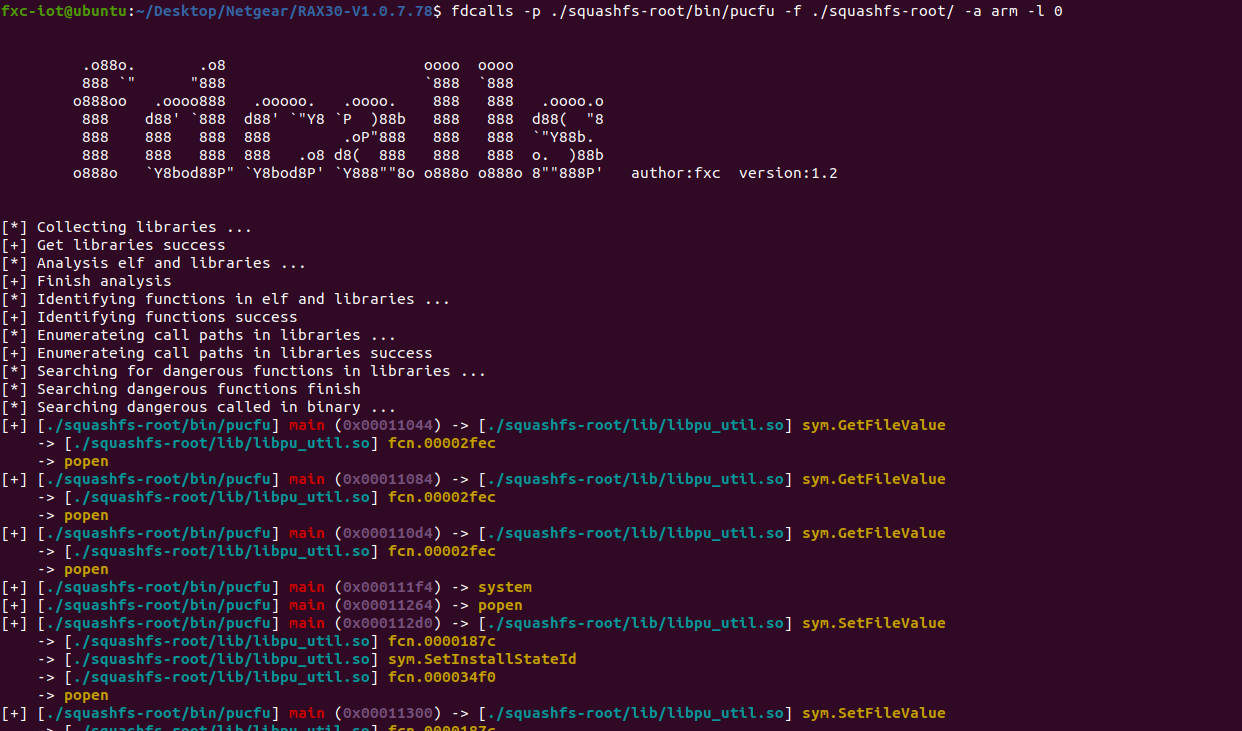
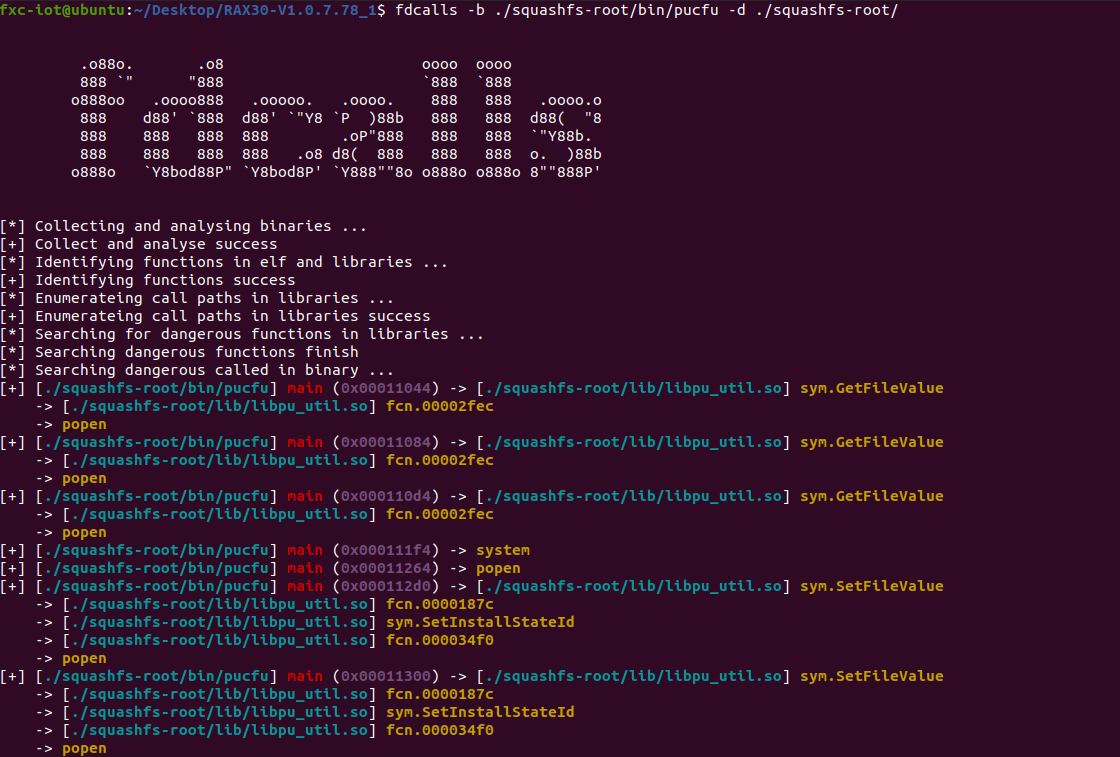
Add files via upload

diff --git a/fdcalls/fdcalls.py b/fdcalls/fdcalls.py
@@ -2,6 +2,7 @@
 # -*- coding: utf-8 -*-
 
 import sys
+import json
 import r2pipe
 import argparse
 import subprocess
@@ -53,7 +54,7 @@ def init():
          888    d88' `888  d88' `"Y8 `P  )88b   888   888  d88(  "8 
          888    888   888  888        .oP"888   888   888  `"Y88b.  
          888    888   888  888   .o8 d8(  888   888   888  o.  )88b 
-        o888o   `Y8bod88P" `Y8bod8P' `Y888""8o o888o o888o 8""888P'   author:fxc  version:1.2
+        o888o   `Y8bod88P" `Y8bod8P' `Y888""8o o888o o888o 8""888P'
                                                             
     """)
 
@@ -76,7 +77,8 @@ def get_path_by_filename(filename, file_system_path):
         return line
 
 # Obtain relevant dynamic link library names
-def get_dynamic_libraries(target_file_path, file_system_path):
+def get_dynamic_libraries(r2fd, file_system_path):
+    '''
     output = subprocess.check_output(['readelf', '-d', target_file_path]).decode('utf-8')
     libraries = []
     for line in output.split('\n'):
@@ -84,6 +86,13 @@ def get_dynamic_libraries(target_file_path, file_system_path):
             library = line.split('[')[-1].split(']')[0]
             library = get_path_by_filename(library, file_system_path)
             libraries.append(library)
+    '''
+    libraries = []
+    libs = r2fd.cmdj('ilj')
+    for lib in libs:
+        library = get_path_by_filename(lib, file_system_path)
+        libraries.append(library)
+
     return libraries
 
 # Obtain function names in target file
@@ -93,27 +102,44 @@ def get_function_names(r2fd, mode):
     functions = r2fd.cmdj('aflj')
     if mode == 0:
         for function in functions:
-            #print(function)
+            # print(function)
             if 'sym.imp' in function['name']:
                 function_name = function['name']
-                #print(function_name)
+                # print(function_name)
                 function_names.append(function_name) 
     else:
         for function in functions:
-            #print(function)
+            # print(function)
             if 'sym.imp' not in function['name']:
                 function_name = function['name']
-                #print(function_name)
+                # print(function_name)
                 function_names.append(function_name) 
     return function_names
 
+# start r2 analysis
 def r2_start_analysis(filepath):
     r2fd = r2pipe.open(filepath)
     r2fd.cmd('aaa')
      
     return r2fd
 
+# get architecture of binary
+def get_architecture(r2fd):
+    info = json.loads(r2fd.cmd('iIj'))
+    return info["arch"]
+
 # Obtain the function called internally from the function
+'''
+for example:
+    int FunA(){
+        system(...);
+        printf(...);
+    }
+    we will get:
+    function_called_functions[A] = ['system', 'printf']
+
+    differnet arch may be a little difference while coding
+'''
 def get_functions_called(r2fd, filename, arch):
 
     function_called_functions = {}
@@ -123,71 +149,85 @@ def get_functions_called(r2fd, filename, arch):
     
     if arch == 'arm':
         for fun in functions_self_defined[filename]:
-            #print(fun)
+            # print(fun)
             functions = []
             disassembly = r2fd.cmd(f'pdf @ {fun} 2>/dev/null')
             for line in disassembly.split('\n'):
                 function_name = ''
                 if 'sym' in line:
-                    #print(line)
+                    # print(line)
                     line1 = line[line.rfind('sym'):]
                     if line1.find(' ') != -1:
                         length = line1.find(' ')
                     else:
                         length = len(line1)
-                    #print(length)
-                    #print(line[line.find('sym'):line.find('sym')+length])
+                    # print(length)
+                    # print(line[line.find('sym'):line.find('sym')+length])
                     function_name = line[line.find('sym'):line.find('sym')+length]
                 elif 'fcn' in line:
-                    #print(line)
+                    # print(line)
                     line1 = line[line.find('fcn'):]
                     if line1.find(' ') != -1:
                         length = line1.find(' ')
                     else:
                         length = len(line1)
-                    #print(length)
-                    #print(line[line.find('fcn'):line.find('fcn')+length])
+                    # print(length)
+                    # print(line[line.find('fcn'):line.find('fcn')+length])
                     function_name = line[line.find('fcn'):line.find('fcn')+length]
                 if function_name != '' and function_name!=fun and function_name not in functions:
                     functions.append(function_name)
             function_called_functions[fun] = functions
-            #print(function_called_functions[fun])
-        #print(function_called_functions)
+            # print(function_called_functions[fun])
+        # print(function_called_functions)
     if arch == 'mips':
         for fun in functions_self_defined[filename]:
-            #print(fun)
+            # print(fun)
             functions = []
             disassembly = r2fd.cmd(f'pdf @ {fun} 2>/dev/null')
             for line in disassembly.split('\n'):
                 function_name = ''
                 if 'sym' in line and 'XREF' not in line:
-                    #print(line)
+                    # print(line)
                     line1 = line[line.rfind('sym'):]
                     if line1.find(' ') != -1:
                         length = line1.find(' ')
                     else:
                         length = len(line1)
-                    #print(length)
-                    #print(line[line.find('sym'):line.find('sym')+length])
+                    # print(length)
+                    # print(line[line.find('sym'):line.find('sym')+length])
                     function_name = line[line.find('sym'):line.find('sym')+length]
                 elif 'fcn' in line and 'XREF' not in line:
-                    #print(line)
+                    # print(line)
                     line1 = line[line.find('fcn'):]
                     if line1.find(' ') != -1:
                         length = line1.find(' ')
                     else:
                         length = len(line1)
-                    #print(length)
-                    #print(line[line.find('fcn'):line.find('fcn')+length])
+                    # print(length)
+                    # print(line[line.find('fcn'):line.find('fcn')+length])
                     function_name = line[line.find('fcn'):line.find('fcn')+length]
                 if function_name != '' and function_name!=fun and function_name not in functions:
                     functions.append(function_name)
             function_called_functions[fun] = functions
-            #print(function_called_functions[fun])
-        #print(function_called_functions)
+            # print(function_called_functions[fun])
+        # print(function_called_functions)
     return function_called_functions
 
 # Obtaining a dangerous function call chain
+'''
+for example:
+    int FunA(){
+        FunB();
+        puts(...);
+    }
+    int FunB(){
+        system(...);
+        printf(...);
+    }
+    we will get:
+    dangerous_fun[A] = ['FunB', 'system']
+    dangerous_fun[B] = ['system']
+'''
 def get_dangerous_chains(dangerous_fun, pre_fun):
     dangerous_fun = [dangerous_fun]
     
@@ -200,7 +240,7 @@ def find_command_injection(r2fd, filename):
     banned_funcs = []
 
     for fun in functions_self_defined[filename]:
-        #print(fun)
+        # print(fun)
         disassembly = r2fd.cmd(f'pdf @ {fun} 2>/dev/null')
         for line in disassembly.split('\n'):
             for func in dangerous_functions:
@@ -237,12 +277,12 @@ def find_command_injection(r2fd, filename):
                         else:
                             func_chain+= add_colour(f, 'yellow')
                             cnt+= 1
-                    #print(func_chain)
+                    # print(func_chain)
                     cmdinjection.append(func_chain)
 
-                    #print(fun + f'({addr}) ->' + func)
-                    #print(dangerous_functions_chain[func])
-                    #print(line)
+                    # print(fun + f'({addr}) ->' + func)
+                    # print(dangerous_functions_chain[func])
+                    # print(line)
     return cmdinjection
 
 # Add the filename before the functionname
@@ -262,74 +302,72 @@ def show_more_dangerous_function():
 
 def main():
     parser = argparse.ArgumentParser(description="fdcalls to help analysis")
-    parser.add_argument('-p', '--path', type=str, default='', help='path to target binary')
-    parser.add_argument('-f', '--file_system_path', type=str, default='', help='path to file path')
-    parser.add_argument('-a', '--arch', type=str, default='', help='arch of target binary')
+    parser.version = "1.3"
+
+    parser.add_argument('-b', '--target_binary_path', type=str, default='', help='path to target binary')
+    parser.add_argument('-d', '--file_system_directory_path', type=str, default='', help='path to firmware file system directory')
     parser.add_argument('-l', '--level', type=int, default=0, help='level of analysis')
+    parser.add_argument('-v', action='version', help='print the version and exit')
     args = parser.parse_args()
 
-    target_filepath = args.path
-    file_system_path = args.file_system_path
-    architecture = args.arch
+    target_filepath = args.target_binary_path
+    file_system_path = args.file_system_directory_path
     level = args.level
     
-    if target_filepath == ''or architecture == '':
-        print('./dcalls.py -p [path/to/target_binary] -f [path/to/file_system_dir] -a [arch] -l [level=0]')
+    if target_filepath == '':
+        print('./dcalls.py -b [path/to/target_binary] -d [path/to/file_system_dir] -a [arch] -l [level=0]')
         exit(0)
     
     init()
-    
-    print("[*] Collecting libraries ...")
-    dynamic_libraries[target_filepath] = get_dynamic_libraries(target_filepath, file_system_path)
+
+    print("[*] Collecting and analysing binaries ...")
+    r2_fd[target_filepath] = r2_start_analysis(target_filepath)
+    dynamic_libraries[target_filepath] = get_dynamic_libraries(r2_fd[target_filepath], file_system_path)
     for f in dynamic_libraries[target_filepath]:
-        if f not in all_used_dynamic_libraries:
-            all_used_dynamic_libraries.append(f)
-        dynamic_libraries[f] = get_dynamic_libraries(f, file_system_path)
+        r2_fd[f] = r2_start_analysis(f)
+        all_used_dynamic_libraries.append(f)
+        dynamic_libraries[f] = get_dynamic_libraries(r2_fd[f], file_system_path)
         for lib in dynamic_libraries[f]:
             if lib not in all_used_dynamic_libraries:
                 all_used_dynamic_libraries.append(lib)
-        #print(f + "=> ", end = '')
-        #print(get_dynamic_libraries(f, file_system_path))
-
+        # print(f + "=> ", end = '')
+        # print(get_dynamic_libraries(r2_fd[f], file_system_path))
+    
     for f in all_used_dynamic_libraries:
         if f not in dynamic_libraries.keys():
-            dynamic_libraries[f] = get_dynamic_libraries(f, file_system_path)
-            #print(f + "=> ", end = '')
-            #print(get_dynamic_libraries(f, file_system_path))
-    #print(all_used_dynamic_libraries)
-    print("[+] Get libraries success")
-    
-    print("[*] Analysis elf and libraries ...")
-    r2_fd[target_filepath] = r2_start_analysis(target_filepath)
-    for f in all_used_dynamic_libraries:
-        r2_fd[f] = r2_start_analysis(f)
-    print("[+] Finish analysis  ")
-    
-    
+            r2_fd[f] = r2_start_analysis(f)
+            dynamic_libraries[f] = get_dynamic_libraries(r2_fd[f], file_system_path)
+            # print(f + "=> ", end = '')
+            # print(get_dynamic_libraries(r2_fd[f], file_system_path))
+    # print(all_used_dynamic_libraries)
+    architecture = get_architecture(r2_fd[target_filepath])
+    print("[+] Collect and analyse success")
+
     print("[*] Identifying functions in elf and libraries ...")
     functions_other_defined[target_filepath] = get_function_names(r2_fd[target_filepath], 0)
     for f in all_used_dynamic_libraries:
         functions_other_defined[f] = get_function_names(r2_fd[f], 0)
-    #print(functions_other_defined)
+    # print(functions_other_defined)
     
     functions_self_defined[target_filepath] = get_function_names(r2_fd[target_filepath], 1)
     for lib in all_used_dynamic_libraries:
         functions_self_defined[lib] = get_function_names(r2_fd[lib], 1)
         for fun in functions_self_defined[lib]:
             function_to_library[fun] = lib
-    #print(functions_self_defined['./bin/pucfu'])
-    #print(functions_self_defined)
-    #print(function_to_library)
+    # print(functions_self_defined['./bin/pucfu'])
+    # print(functions_self_defined)
+    # print(function_to_library)
     print("[+] Identifying functions success")
     
     print("[*] Enumerateing call paths in libraries ...")
     for lib in all_used_dynamic_libraries:
         libraries_called_functions[lib] = get_functions_called(r2_fd[lib] ,lib, architecture)
-        #print(lib)
-        #print(get_functions_called(r2_fd[lib] ,lib, architecture))
-    #print(libraries_called_functions)
+        # print(lib)
+        # print(get_functions_called(r2_fd[lib] ,lib, architecture))
+    # print(libraries_called_functions)
     print("[+] Enumerateing call paths in libraries success")
 
+    # Search dangerous functions and add them to dangerous_functions
     print("[*] Searching for dangerous functions in libraries ...")
     dangerous_functions_now_len = len(dangerous_functions)
     dangerous_functions_old_len = 0
@@ -357,12 +395,13 @@ def main():
 
         dangerous_functions_old_len = dangerous_functions_now_len
         dangerous_functions_now_len = len(dangerous_functions)
-    #print(dangerous_functions)
-    #print(dangerous_functions_chain)
+    # print(dangerous_functions)
+    # print(dangerous_functions_chain)
     print("[*] Searching dangerous functions finish")
 
     print("[*] Searching dangerous called in binary ...")
     command_injection_addr = find_command_injection(r2_fd[target_filepath], target_filepath)
+    # print results
     for s in command_injection_addr:
         print(s)
     print("[+] fdcalls finish")
@@ -372,5 +411,3 @@ def main():
 
 if __name__ == '__main__':
     main()
-    
-

diff --git a/README.md b/README.md
@@ -4,7 +4,7 @@
 
 ## Version
 
-latest: v1.2
+latest: v1.3
 
 ## Introduction
 
@@ -17,7 +17,7 @@ Welcome to provide suggestions.
 ## Usage
 
 ```shell
-fdcalls -p [path/to/target_binary] -f [path/to/file_system_dir] -a [arch] -l [level=0]
+fdcalls -b [path/to/target_binary] -d [path/to/file_system_dir] -l [level=0]
 ```
 
 ## Setup
